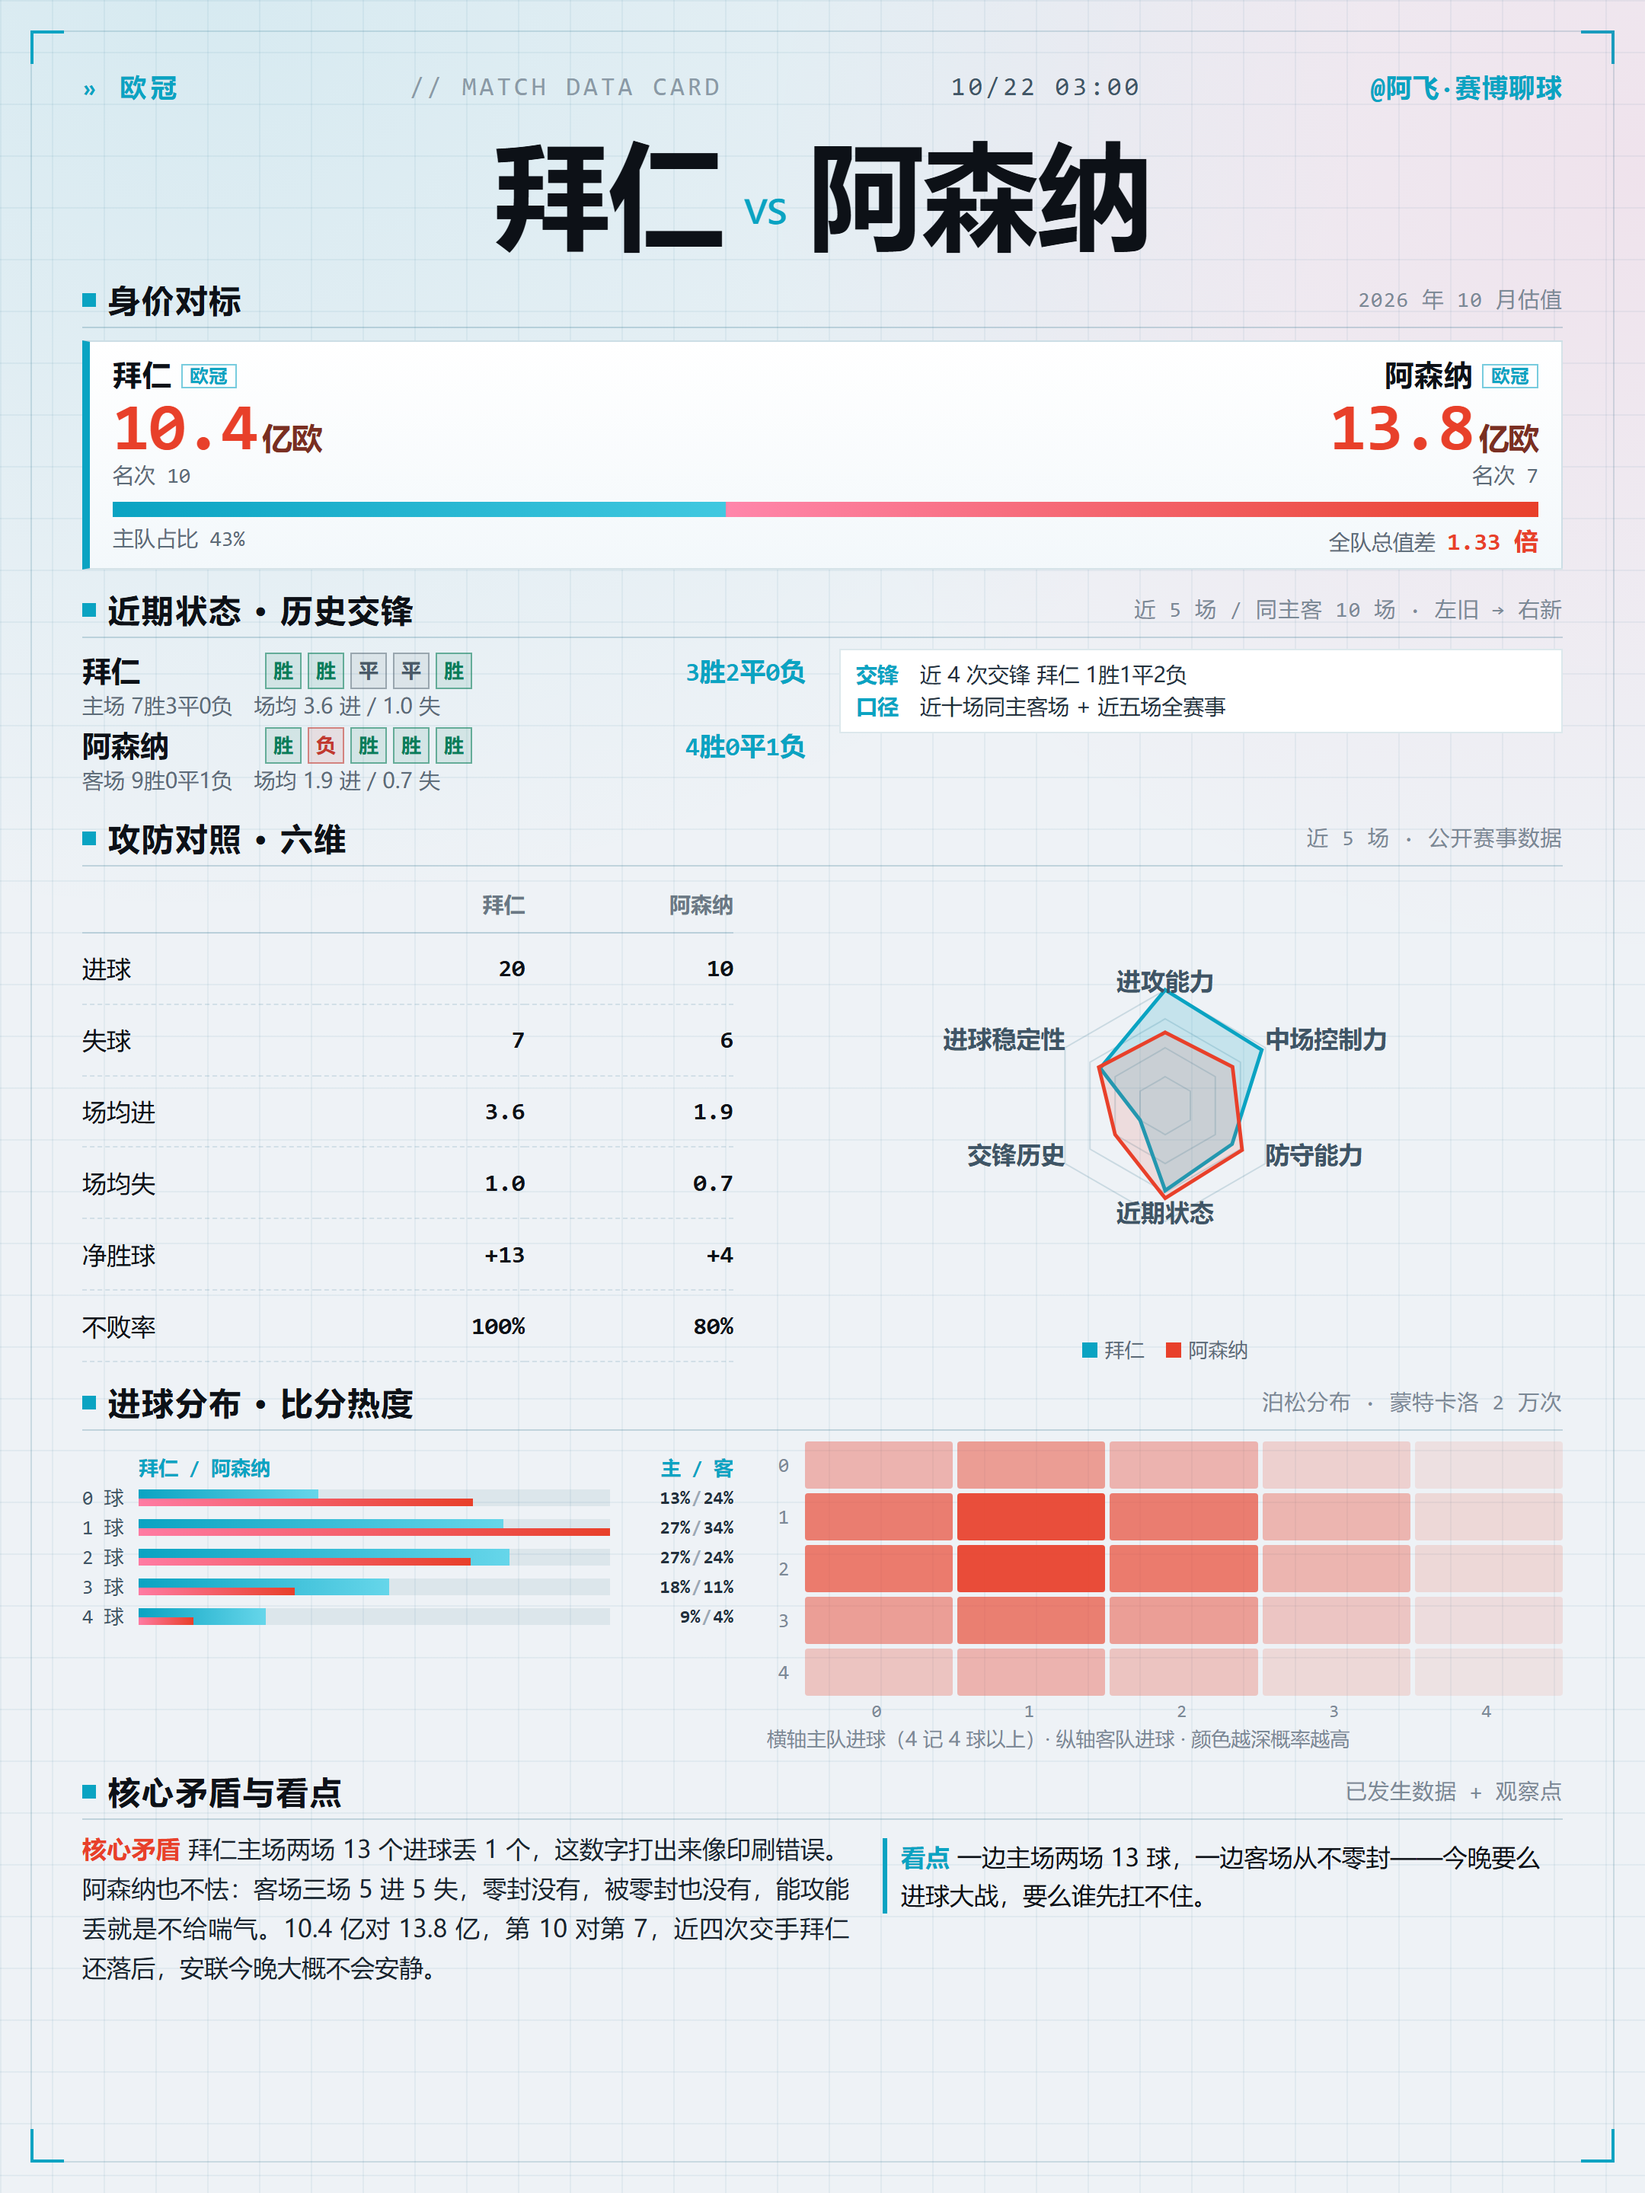
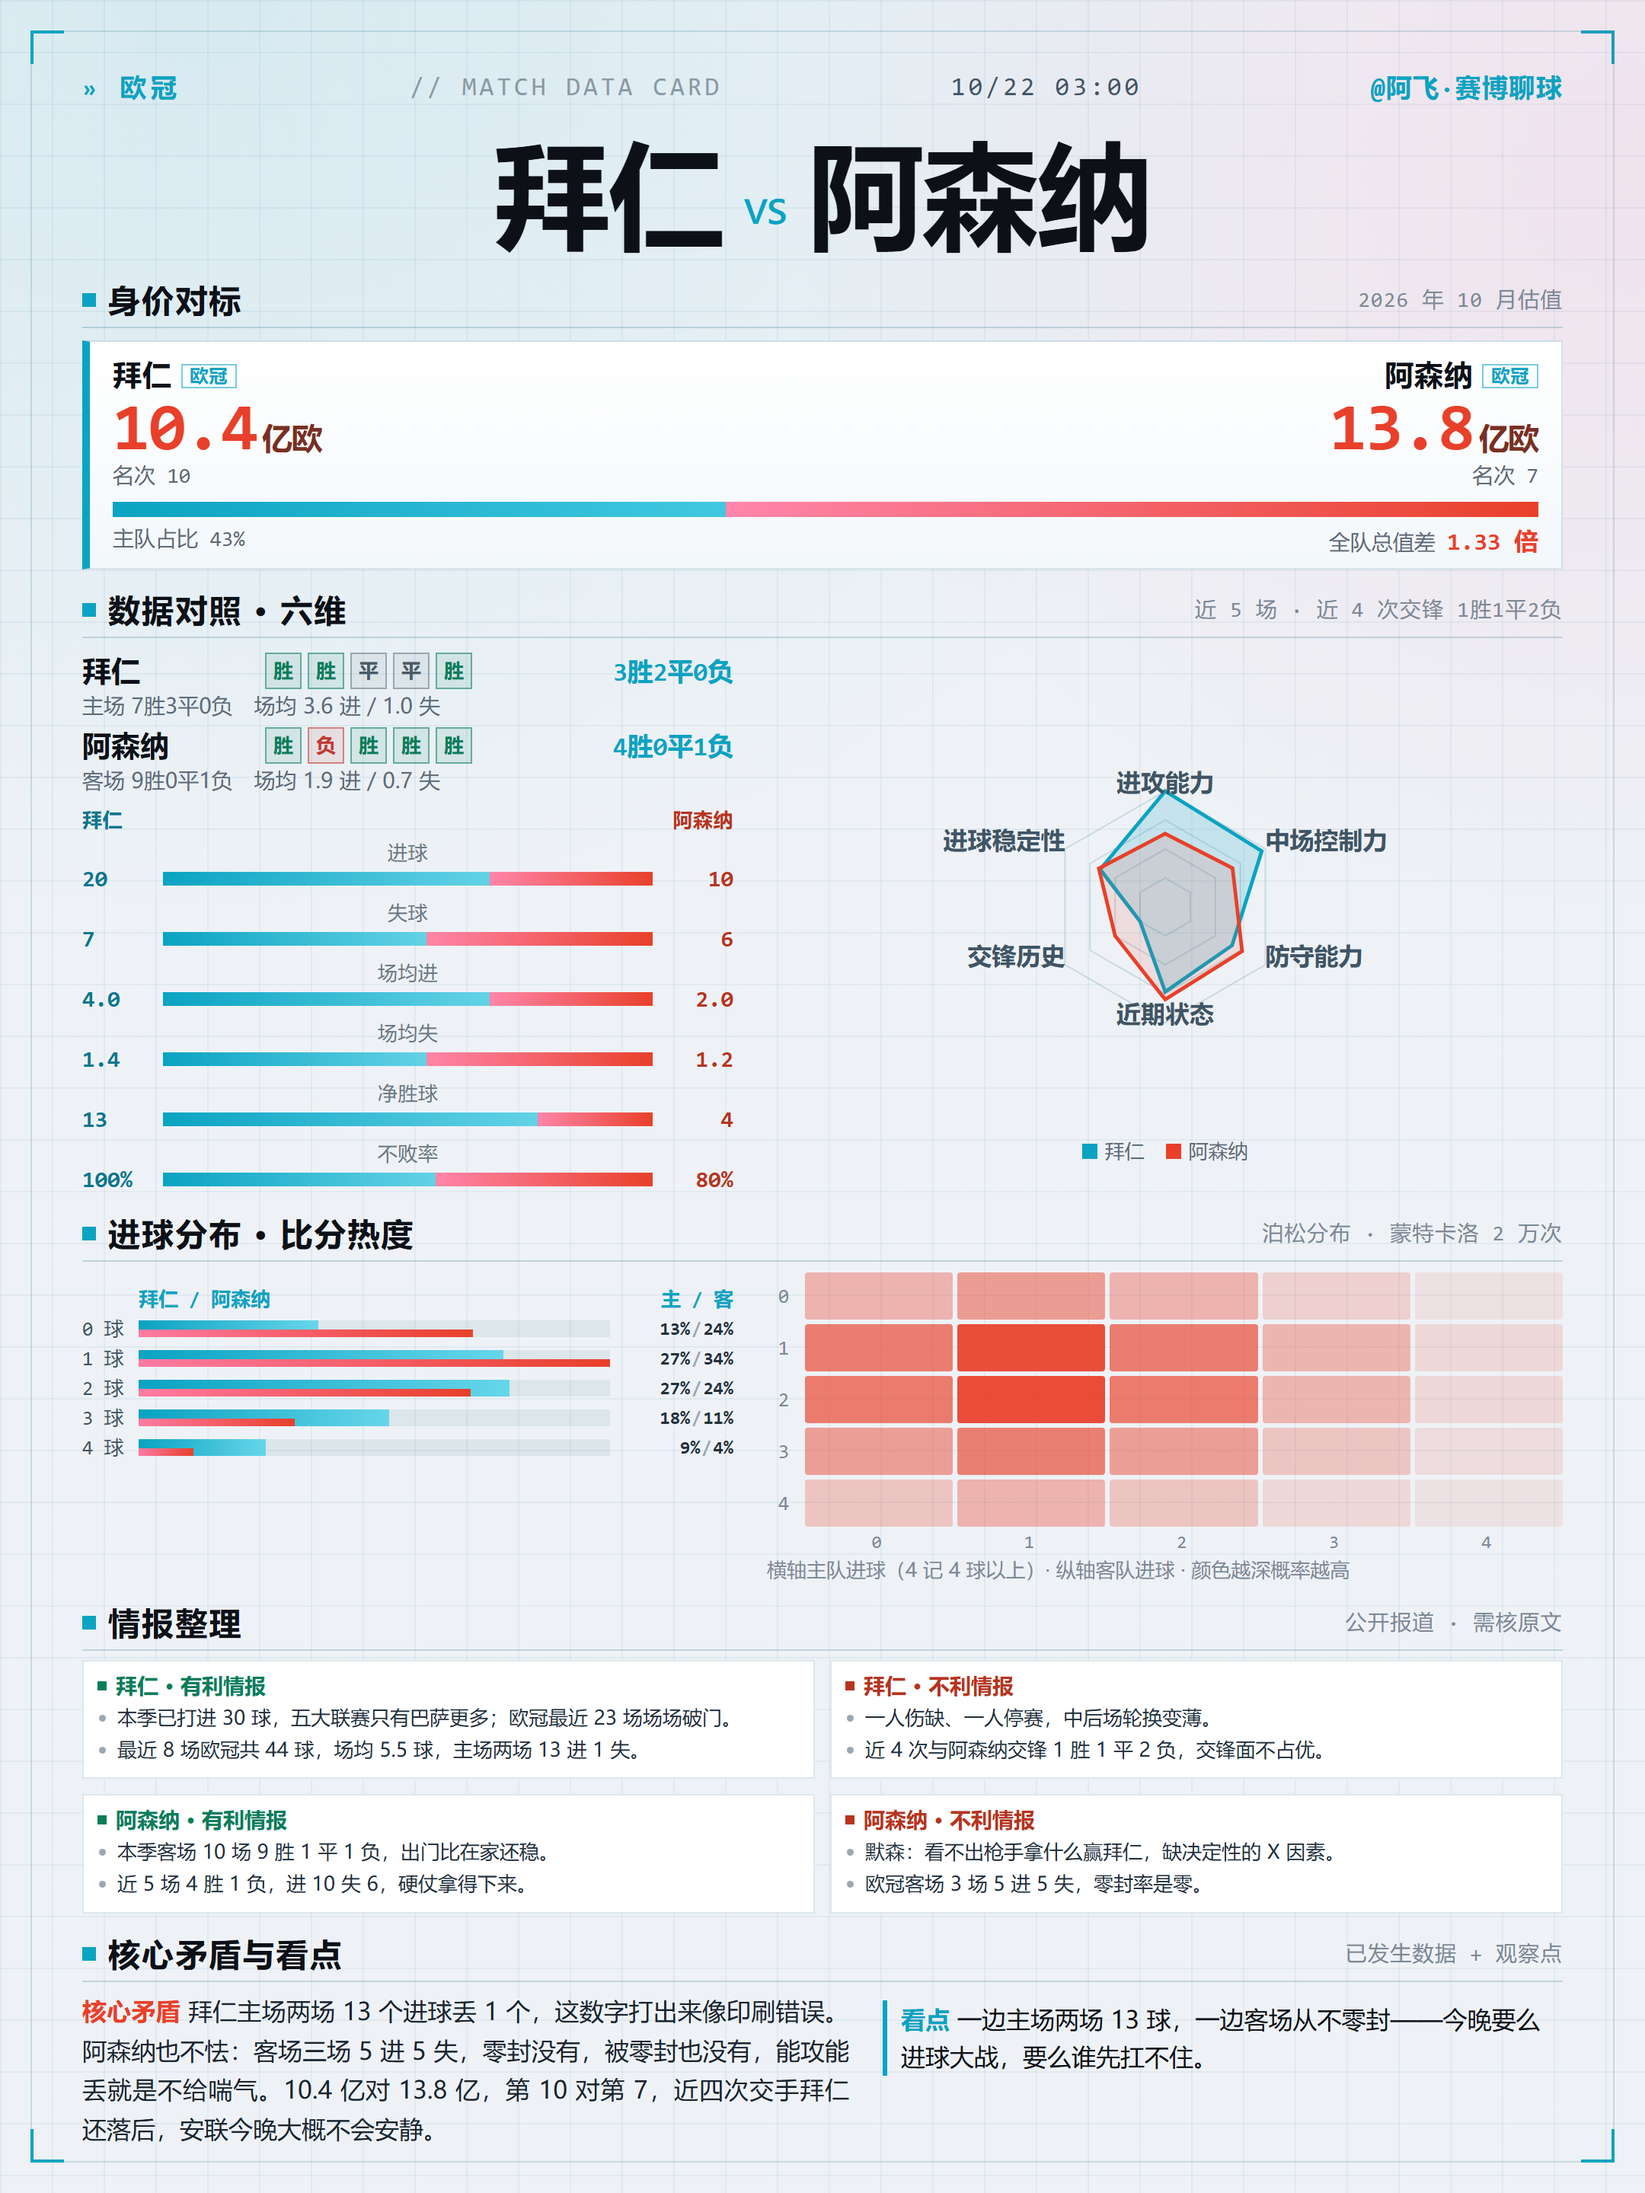
小红书 D 版 v3：对比条按胜率排法（两端数值+双色条）、新增情报整理块、场均改按近5场自算

diff --git a/scripts/xhs_card_d.py b/scripts/xhs_card_d.py
@@ -129,6 +129,29 @@ table.st td.a{font-weight:800;width:32%%}
 .narr b{color:#e8402a;font-weight:800;margin-right:5px}
 .pt{margin-top:6px;font-size:16px;line-height:1.55;border-left:3px solid #0aa3c2;padding-left:9px}
 .pt em{font-style:normal;font-weight:800;color:#0aa3c2;margin-right:5px}
+
+/* 对比条（按胜率条的排法：两端数值 + 中间双色条） */
+.cmp{margin-top:6px}
+.cmp .row{margin-top:5px}
+.cmp .lab{font-size:13px;color:#6a7885;letter-spacing:.02em;text-align:center}
+.cmp .rb{display:flex;align-items:center;gap:7px;font-family:%(mono)s;font-size:15px;font-weight:800;color:#22303c}
+.cmp .rb .v{width:46px}
+.cmp .rb .v.r{text-align:right;color:#b8331f}
+.cmp .rb .v.l{color:#0a768f}
+.cmp .track{flex:1;height:9px;display:flex;background:rgba(10,90,120,.10)}
+.cmp .track i{display:block;height:9px}
+.cmp .track i.l{background:linear-gradient(90deg,#0aa3c2,#63d2e6)}
+.cmp .track i.r{background:linear-gradient(90deg,#ff85a9,#e8402a)}
+/* 情报 */
+.intel{display:grid;grid-template-columns:1fr 1fr;gap:10px;margin-top:6px}
+.ic{background:#fff;border:1px solid rgba(10,90,120,.14);padding:7px 9px}
+.ic .t{font-size:14px;font-weight:800;display:flex;align-items:center;gap:6px;margin-bottom:3px}
+.ic .t i{width:6px;height:6px;display:inline-block}
+.ic.g .t{color:#0a7d5a}.ic.g .t i{background:#0a7d5a}
+.ic.b .t{color:#b8331f}.ic.b .t i{background:#b8331f}
+.ic ul{margin:0;padding-left:13px}
+.ic li{font-size:13px;line-height:1.45;color:#22303c;margin-bottom:2px}
+.ic li::marker{color:#9aa8b4}
 """ % {"w": W, "h": H, "mono": MONO}
 
 
@@ -247,23 +270,76 @@ def value_block(card: dict) -> str:
 </div>"""
 
 
+def cmp_rows(card: dict) -> str:
+    f = card.get("form") or {}
+    fh, fa = f.get("home") or {}, f.get("away") or {}
+    def avg(v, n):
+        try:
+            return "%.1f" % (float(v) / float(n))
+        except (TypeError, ZeroDivisionError, ValueError):
+            return "0.0"
+    nh, na = fh.get("n") or 5, fa.get("n") or 5
+    rows = [
+        ("进球", fh.get("gf"), fa.get("gf")),
+        ("失球", fh.get("ga"), fa.get("ga")),
+        ("场均进", avg(fh.get("gf"), nh), avg(fa.get("gf"), na)),
+        ("场均失", avg(fh.get("ga"), nh), avg(fa.get("ga"), na)),
+        ("净胜球", fh.get("net"), fa.get("net")),
+        ("不败率", "%d%%" % round(100 * (fh.get("unbeaten") or 0)),
+         "%d%%" % round(100 * (fa.get("unbeaten") or 0))),
+    ]
+    out = ['<div class="row"><div class="lab" style="display:flex;justify-content:space-between;'
+           'font-weight:800"><span style="color:#0a768f">%s</span>'
+           '<span style="color:#b8331f">%s</span></div></div>' % (esc(card.get("home")), esc(card.get("away")))]
+    for lab, a, b in rows:
+        try:
+            x, y = float(str(a).replace("%", "")), float(str(b).replace("%", ""))
+        except ValueError:
+            x = y = 1.0
+        tot = (x + y) or 1
+        wl = max(4.0, min(96.0, 100.0 * x / tot))
+        out.append(
+            '<div class="row"><div class="lab">%s</div><div class="rb">'
+            '<span class="v l">%s</span><span class="track">'
+            '<i class="l" style="width:%.1f%%"></i><i class="r" style="width:%.1f%%"></i></span>'
+            '<span class="v r">%s</span></div></div>'
+            % (esc(lab), esc(a), wl, 100 - wl, esc(b)))
+    return "".join(out)
+
+
+def intel_block(card: dict) -> str:
+    it = card.get("intel") or {}
+    if not it:
+        return ""
+    home, away = esc(card.get("home")), esc(card.get("away"))
+
+    def cell(who, kind, items):
+        if not items:
+            return ""
+        tag = "有利情报" if kind == "g" else "不利情报"
+        lis = "".join("<li>%s</li>" % esc(x) for x in items[:3])
+        return ('<div class="ic %s"><div class="t"><i></i>%s · %s</div><ul>%s</ul></div>'
+                % (kind, who, tag, lis))
+
+    return (cell(home, "g", it.get("home_good")) + cell(home, "b", it.get("home_bad")) +
+            cell(away, "g", it.get("away_good")) + cell(away, "b", it.get("away_bad")))
+
+
 def card_html(card: dict, idx: int, total: int) -> str:
     f = card.get("form") or {}
     fh, fa = f.get("home") or {}, f.get("away") or {}
     home, away = esc(card.get("home")), esc(card.get("away"))
     league = esc(card.get("league"))
     focus = card.get("focus") or []
-    narr = esc((card.get("narr") or " ".join(x for x in [card.get("contrast") or ""] + list(focus) if x))[:190])
+    narr = esc((card.get("narr") or " ".join(x for x in [card.get("contrast") or ""] + list(focus) if x))[:210])
     point = esc(card.get("point") or (focus[0] if focus else ""))
     h2h = esc(f.get("h2h") or "")
-    sub = f.get("window") or "近 5 场"
 
     def badges(seq):
         cls = {"W": "w", "D": "d", "L": "l"}
         txt = {"W": "胜", "D": "平", "L": "负"}
         return "".join('<i class="%s">%s</i>' % (cls.get(s, "d"), txt.get(s, "平")) for s in (seq or [])[:5])
 
-    net_h, net_a = fh.get("net") or 0, fa.get("net") or 0
     pt_html = ('<div class="pt"><em>看点</em>' + point + "</div>") if point else ""
     return f"""<!doctype html><html lang="zh"><head><meta charset="utf-8"><style>{CSS}</style></head>
 <body><div class="card">
@@ -275,8 +351,9 @@ def card_html(card: dict, idx: int, total: int) -> str:
 <section class="sec"><div class="sh"><span class="n">身价对标</span><span class="h">2026 年 10 月估值</span></div>
 {value_block(card)}</section>
 
-<section class="sec"><div class="sh"><span class="n">近期状态 · 历史交锋</span><span class="h">{esc(sub)} · 左旧 → 右新</span></div>
-<div class="two c2">
+<section class="sec"><div class="sh"><span class="n">数据对照 · 六维</span>
+<span class="h">近 5 场 · {esc(f.get("h2h_short") or h2h or "同主客 10 场")}</span></div>
+<div class="two c2b stretch">
   <div>
     <div class="fr"><div class="l"><span class="nm">{home}</span><span class="badges">{badges(fh.get("seq"))}</span></div>
       <span class="r">{esc(fh.get("l5"))}</span></div>
@@ -284,22 +361,8 @@ def card_html(card: dict, idx: int, total: int) -> str:
     <div class="fr"><div class="l"><span class="nm">{away}</span><span class="badges">{badges(fa.get("seq"))}</span></div>
       <span class="r">{esc(fa.get("l5"))}</span></div>
     <div class="sub2">{esc(fa.get("ha"))}　场均 {esc(fa.get("pj"))} 进 / {esc(fa.get("sj"))} 失</div>
+    <div class="cmp">{cmp_rows(card)}</div>
   </div>
-  <div class="h2h"><b>交锋</b>　{h2h or "两队近年无交锋记录"}<br>
-    <b>口径</b>　近十场同主客场 + 近五场全赛事</div>
-</div></section>
-
-<section class="sec"><div class="sh"><span class="n">攻防对照 · 六维</span><span class="h">近 5 场 · 公开赛事数据</span></div>
-<div class="two c2b stretch">
-  <table class="st fill">
-    <tr><th></th><th class="a">{home}</th><th class="a">{away}</th></tr>
-    <tr><td>进球</td><td class="a">{esc(fh.get("gf"))}</td><td class="a">{esc(fa.get("gf"))}</td></tr>
-    <tr><td>失球</td><td class="a">{esc(fh.get("ga"))}</td><td class="a">{esc(fa.get("ga"))}</td></tr>
-    <tr><td>场均进</td><td class="a">{esc(fh.get("pj"))}</td><td class="a">{esc(fa.get("pj"))}</td></tr>
-    <tr><td>场均失</td><td class="a">{esc(fh.get("sj"))}</td><td class="a">{esc(fa.get("sj"))}</td></tr>
-    <tr><td>净胜球</td><td class="a">{'+' if net_h > 0 else ''}{esc(net_h)}</td><td class="a">{'+' if net_a > 0 else ''}{esc(net_a)}</td></tr>
-    <tr><td>不败率</td><td class="a">{round(100 * (fh.get("unbeaten") or 0))}%</td><td class="a">{round(100 * (fa.get("unbeaten") or 0))}%</td></tr>
-  </table>
   <div class="rad">{radial(card)}
     <div class="lg2"><span><i style="background:#0aa3c2"></i>{home}</span>
     <span><i style="background:#e8402a"></i>{away}</span></div></div>
@@ -313,6 +376,9 @@ def card_html(card: dict, idx: int, total: int) -> str:
   </div>
   <div class="heat">{mc_heat(card)}</div>
 </div></section>
+
+<section class="sec"><div class="sh"><span class="n">情报整理</span><span class="h">公开报道 · 需核原文</span></div>
+<div class="intel">{intel_block(card)}</div></section>
 
 <section class="sec"><div class="sh"><span class="n">核心矛盾与看点</span><span class="h">已发生数据 + 观察点</span></div>
 <div class="two c1b" style="margin-top:6px">
